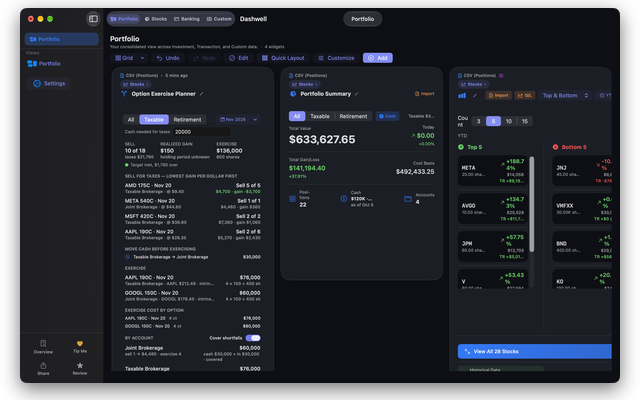
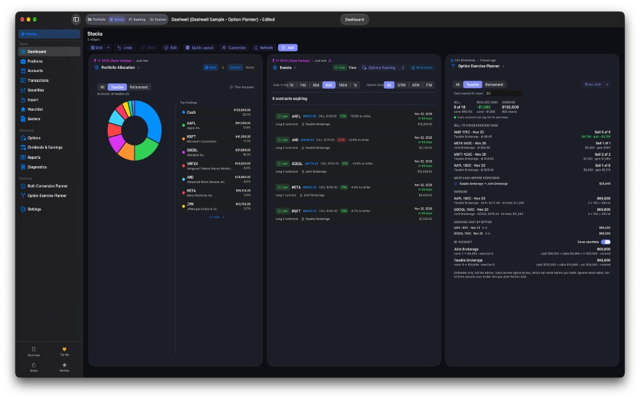
Update Option Exercise Planner widget screenshot

diff --git a/docs/assets/apps-data.js b/docs/assets/apps-data.js
@@ -176,7 +176,7 @@ window.DASHWELL_CATALOG = [
         alt: "Dashwell option exercise cost checked against each account's cash and money-market funds, with both accounts covered, and exercise cost by option",
         caption: "Cash check by account", w: 640, h: 400 },
       { src: "assets/shots/dashwell/dashwell-options-widget-mac.png",
-        alt: "Dashwell Portfolio dashboard on Mac with the Option Exercise Planner widget next to portfolio summary and performance widgets",
+        alt: "Dashwell Portfolio dashboard on Mac with the Option Exercise Planner widget next to portfolio allocation and events widgets",
         caption: "Option Exercise Planner widget", w: 640, h: 400 },
       { src: "assets/shots/dashwell/dashwell-banking-mac.png",
         alt: "Dashwell banking dashboard on Mac showing spend by category, budget versus actual and recent transactions",

diff --git a/docs/dashwell/index.html b/docs/dashwell/index.html
@@ -132,7 +132,7 @@
                     <figcaption>Cash check by account</figcaption>
                 </figure>
                 <figure class="screenshot-figure">
-                    <img src="../assets/shots/dashwell/dashwell-options-widget-mac.png" alt="Dashwell Portfolio dashboard on Mac with the Option Exercise Planner widget next to portfolio summary and performance widgets" width="640" height="400" loading="lazy">
+                    <img src="../assets/shots/dashwell/dashwell-options-widget-mac.png" alt="Dashwell Portfolio dashboard on Mac with the Option Exercise Planner widget next to portfolio allocation and events widgets" width="640" height="400" loading="lazy">
                     <figcaption>Option Exercise Planner widget</figcaption>
                 </figure>
                 <figure class="screenshot-figure">
